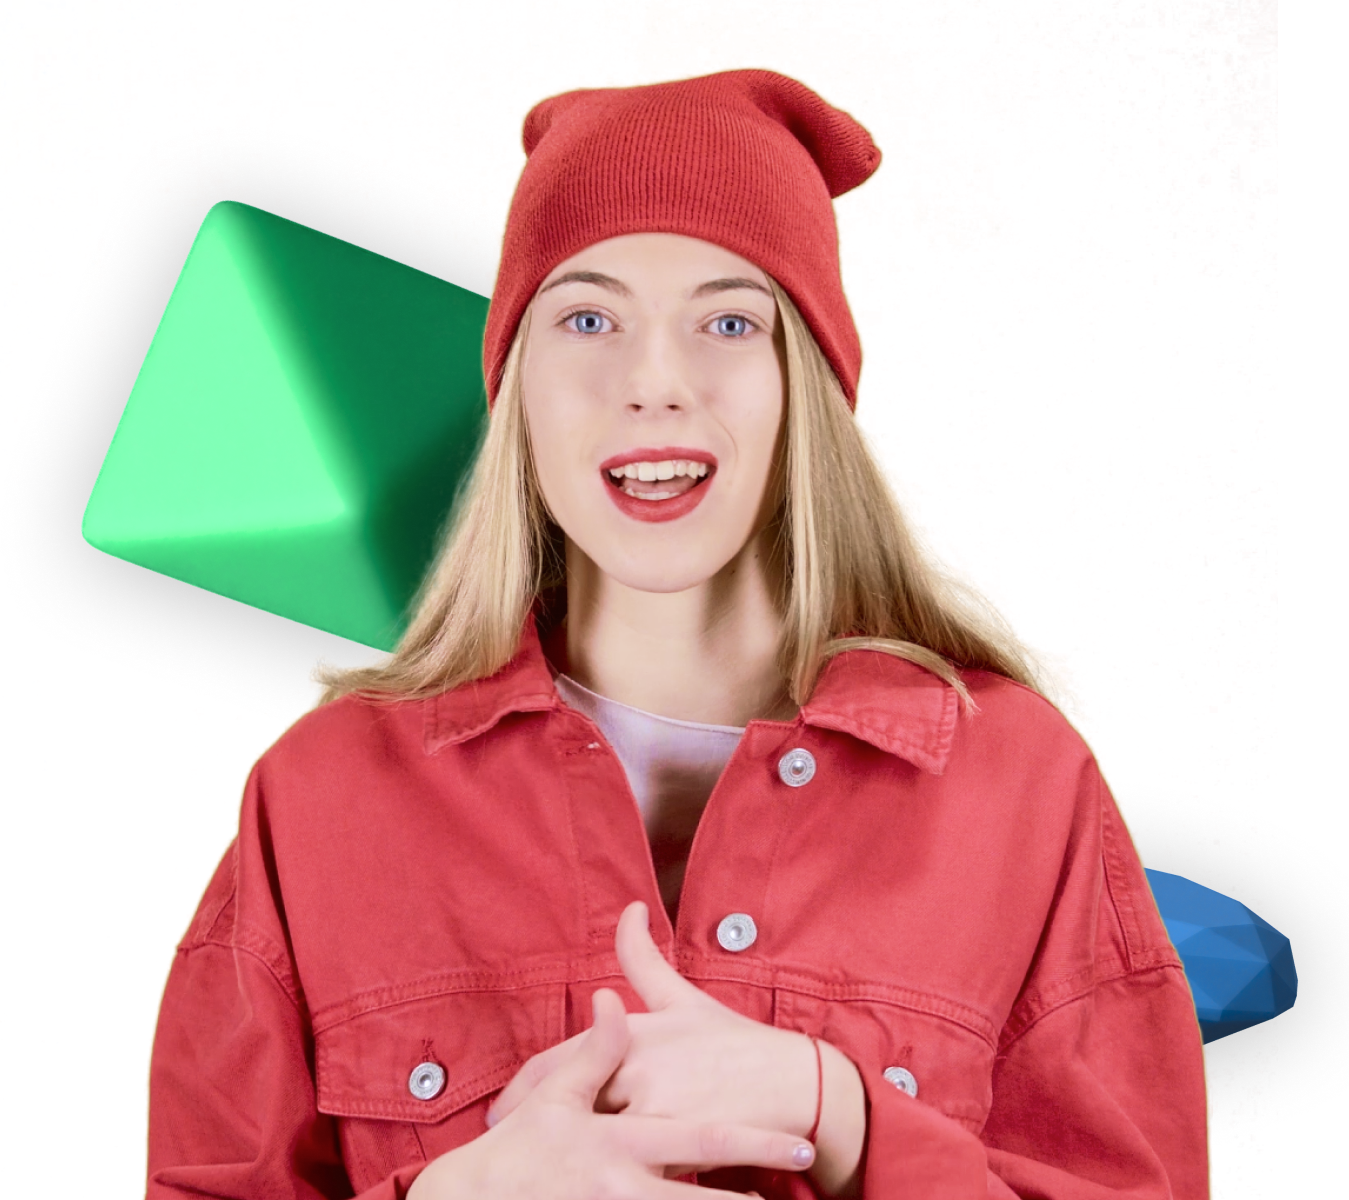
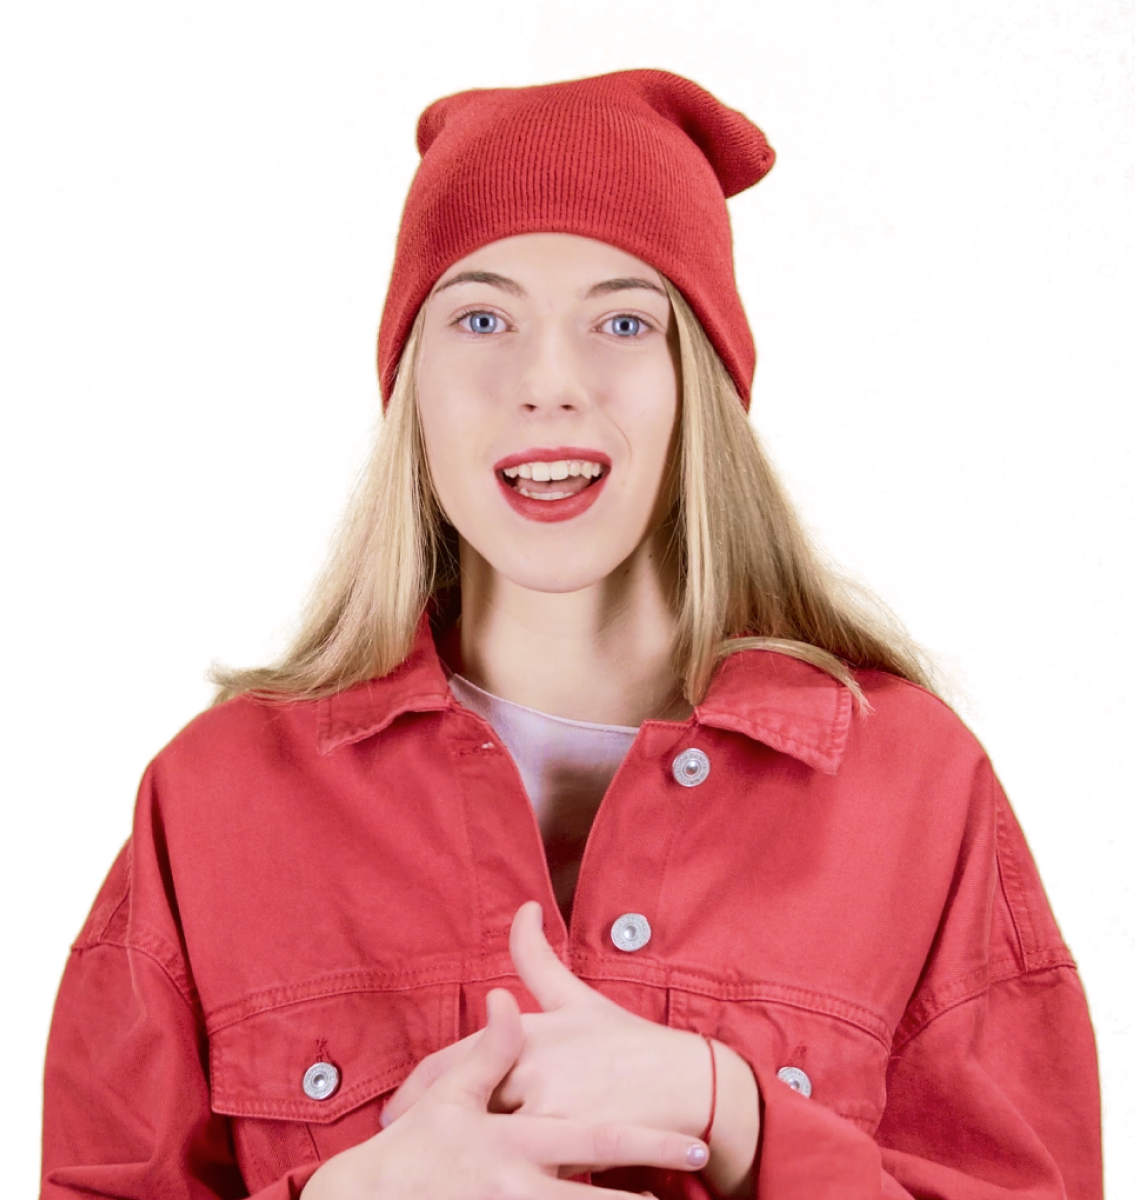
:dizzy: [TextImage right] Add animations

diff --git a/src/components/organisms/TextImage.jsx b/src/components/organisms/TextImage.jsx
@@ -7,6 +7,8 @@ import AnimationWrapper from "../atoms/AnimationWrapper"
 
 import styles from "./textImage.module.css"
 
+import Reveal from "react-reveal/Reveal"
+
 const TextImage = ({ imgPosition, subtitle, title, text }) => {
   return (
     <section
@@ -26,7 +28,7 @@ const TextImage = ({ imgPosition, subtitle, title, text }) => {
           </div>
 
           {imgPosition === "left" ? (
-            <AnimationWrapper>
+            <AnimationWrapper imgPosition="left">
               <Image
                 imgsrc="auctionnerHammer.png"
                 imgAlt="Auctionner's hammer in Bidr"
@@ -34,7 +36,21 @@ const TextImage = ({ imgPosition, subtitle, title, text }) => {
               />
             </AnimationWrapper>
           ) : (
-            <AnimationWrapper>
+            <AnimationWrapper imgPosition="right">
+              <Reveal effect="appearRotateRtoL textImageProps">
+                <Image
+                  imgsrc="losange01.png"
+                  imgAlt="Losange façon diamant"
+                  stylesImage=""
+                />
+              </Reveal>
+              <Reveal effect="appearRotateLtoR textImageProps">
+                <Image
+                  imgsrc="diamond01.png"
+                  imgAlt="Diamant en 3D"
+                  stylesImage=""
+                />
+              </Reveal>
               <Image
                 imgsrc="host.png"
                 imgAlt="Bidr's host"

diff --git a/src/styles/animate.css b/src/styles/animate.css
@@ -1,3 +1,5 @@
+/* HERO */
+
 .heroImageProps {
   width: 200px;
   position: absolute;
@@ -84,5 +86,65 @@
   100% {
     transform: translateX(140px) rotate(15deg);
     z-index: 1;
+  }
+}
+
+
+/* TEXT IMAGE */
+
+.textImageProps {
+  position: absolute;
+  z-index: 1;
+}
+
+.appearRotateRtoL {
+  top: 0;
+  left: 0;
+  width: 200px;
+  animation: appearRotateRtoLMobile forwards;
+}
+
+@media screen and (min-width: 800px) {
+  .appearRotateRtoL {
+    width: 550px;
+    top: 80px;
+    left: -130px;
+    animation: appearRotateRtoLMobile forwards;
+  }
+}
+
+@keyframes appearRotateRtoLMobile {
+  0% {
+    transform: translate(30px) scale(0.5) rotate(0);
+  }
+
+  100% {
+    transform: translateX(-30px) scale(1.5) rotate(-15deg);
+  }
+}
+
+.appearRotateLtoR {
+  top: 150px;
+  right: 0;
+  width: 150px;
+  animation: appearRotateLtoRMobile forwards;
+}
+
+@media screen and (min-width: 800px) {
+  .appearRotateLtoR {
+    top: 200px;
+    right: 0;
+    width: 200px;
+    animation: appearRotateLtoRMobile forwards;
+  }
+}
+
+@keyframes appearRotateLtoRMobile {
+  0% {
+    transform: translate(-30px) scale(0.5) rotate(0);
+  }
+
+  100% {
+    transform: translateX(-20px) scale(1.5) rotate(15deg);
   }
 }

diff --git a/src/components/atoms/AnimationWrapper.jsx b/src/components/atoms/AnimationWrapper.jsx
@@ -2,8 +2,16 @@ import React from "react"
 
 import styles from "./animationWrapper.module.css"
 
-const AnimationWrapper = ({ children }) => {
-  return <div className={styles.textImageWrapper}>{children}</div>
+const AnimationWrapper = ({ children, imgPosition }) => {
+  return (
+    <div
+      className={[styles[`${imgPosition}Image`], styles.textImageWrapper].join(
+        " "
+      )}
+    >
+      {children}
+    </div>
+  )
 }
 
 export default AnimationWrapper

diff --git a/src/components/atoms/animationWrapper.module.css b/src/components/atoms/animationWrapper.module.css
@@ -4,6 +4,7 @@
   overflow-x: hidden;
   display: flex;
   align-items: flex-end;
+  position: relative;
 }
 
 @media screen and (min-width: 800px) {
@@ -11,4 +12,12 @@
     width: 60%;
     margin-left: 0;
   }
+}
+
+
+.rightImage.textImageWrapper {
+  background: linear-gradient(to top, rgba(255, 255, 255, 0) 1%,
+      #4E54E4), url("../../images/pattern-background.png");
+  background-size: cover;
+  background-position: center center;
 }

diff --git a/src/components/organisms/textImage.module.css b/src/components/organisms/textImage.module.css
@@ -52,6 +52,7 @@
 /* Content image */
 .stylesImage {
   width: 120%;
+  z-index: 2;
 }
 
 @media screen and (min-width: 800px) {
@@ -79,9 +80,9 @@
   opacity: 0.5;
 }
 
-.rightImage .stylesImage {
+/* .rightImage .stylesImage {
   background: linear-gradient(to top, rgba(255, 255, 255, 0) 1%,
       #4E54E4), url("../../images/pattern-background.png");
   background-size: cover;
   background-position: center center;
-}
+} */
